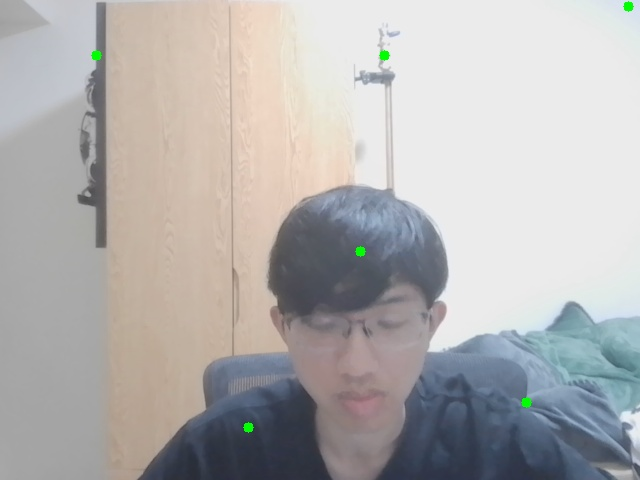
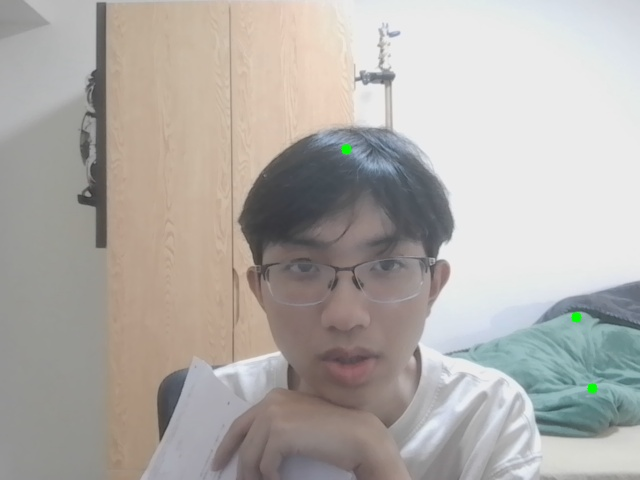
json

diff --git a/ai.py b/ai.py
@@ -12,21 +12,22 @@ ENDPOINT = "https://hsh2024.openai.azure.com/openai/deployments/gpt4o/chat/compl
 init_img2text = {
     "role": "user",
     "content":  """
-                請把圖片中的題目轉化成文字
+                我們要輔助沒有視覺的學生寫題目
+                所以幫我把題目圖片轉成文字
                 題目分成文字敘述跟圖兩個部分或是只有文字
-                假如有圖片 請分析圖片 告訴我對題目有用的內容 且盡量詳細
-
-                然後輸出給我題目敘述 跟你分析過後的圖片 
-                最後再統整所有資訊 分析題目 寫出答案
-                Json格式範例:
+                假如有圖片 處理完文字後 要分析圖片 寫下對題目有用的內容 且盡量詳細
+                分析完成題目後 把你的計算過程填入下面的json格式範例 
+                
+                Json格式:
                 {
                 "number": “題號”,
-                "text": "題目內容",
-                "image_description": "如果有圖片，請輸入圖片描述，否則為 null",
+                "text": "題目內容 請跟原文一模一樣",
+                "image_description": "如果有圖片，請輸入圖片描述，否則為 null，這部分是輔助盲人學生判斷題目的重點，所以假如有，要盡可能詳盡",
                 "options": “如果有選項，請輸入圖片描述，否則為 null”,
-                "idea":"統整以上並分析題目 寫下你的思考過程",
-                "answer":"答案"
+                "idea":"你的思考過程，請把剛剛所有分析填入這裡",
+                "answer":"最後的答案"
                 }
+                全部內容要能讓學生判斷並完成題目 並在最後輸出內含json的list比如[{question1},{question2}] 注意，就算只有一個json也要用list格式
                 """
 }
 
@@ -54,9 +55,9 @@ def img2text(img):
     messages.append(init_img2text)
     payload = {  
         "messages": messages,
-        "temperature": 0.7,  
+        "temperature": 0.4,  
         "top_p": 0.95,  
-        "max_tokens": 800  
+        "max_tokens": 2000  
     }
     response = requests.post(ENDPOINT, headers=headers, data=json.dumps(payload))  
     if response.status_code == 200:  
@@ -68,9 +69,10 @@ def img2text(img):
 init_answer = {
     "role": "user",
     "content":  """            
-                根據以下内容 分析題目跟想法 判斷是否正確 輸出新答案或維持一樣
-                最後輸出json格式答案
-                json格式範例： 
+                以下是一個學生寫的題目 以及他的計算過程 請判斷是否正確 答案可以是維持一樣或是新的
+
+                並在最後輸出內含json的list比如[{question1},{question2}]
+                Json格式範例： 
                 {
                 "number": “題號”,
                 "answer": "答案 如果有選項 只要選項字母即可"

diff --git a/test.py b/test.py
@@ -1,0 +1,28 @@
+import re
+import json
+
+res = '''
+```json
+[
+    {
+        "number": "8",
+        "text": "已知在△ABC中，若△ABC之內切圓分別切三邊BC、CA、AB於A1、B1、C1三點，其中∠BA1C1=θ1，如圖(一)；而圖(二)中△A1B1C1之內切圓分別切三邊B1C1、C1A1、A1B1於A2、B2、C2三點，其中∠B1A2C2=θ2，如圖(二)。依此規則遞迴下去，可得一數列{θn}，其中n為正整數。則下列選項何者正確？\n\n(1) θ1+2θ2=180°\n(2) {θn}為一等差數列\n(3)數列{θn}的通項公式為θn=θ1-90°(n-1)，其中n≥2\n(4)數列{θn} 為等比數列，且sinθn/sinθ1=cos^n(θ1/2)恒成立\n(5)若θ1=60°，則{θn}既為等差數列亦為等比數列",
+        "image_description": "圖(一)：一個三角形ABC，內切圓分別切三邊BC、CA、AB於A1、B1、C1三點，並標示角度∠BA1C1=θ1。\n\n圖(二)：一個較小的三角形A1B1C1，內切圓分別切三邊B1C1、C1A1、A1B1於A2、B2、C2三點，並標示角度∠B1A2C2=θ2。此過程可以遞迴下去。",  
+        "options": "(1) θ1+2θ2=180°\n(2) {θn}為一等差數列\n(3)數列{θn}的通項公式為θn=θ1-90°(n-1)，其中n≥2\n(4)數列{θn}為等比 數列，且sinθn/sinθ1=cos^n(θ1/2)恒成立\n(5)若θ1=60°，則{θn}既為等差數列亦為等比數列",
+        "idea": "根據題目描述，三角形內切圓的遞迴過程形成一個數列{θn}。分析選項：(1) θ1+2θ2=180°：需要檢查是否符合內角和的特 性。(2) {θn}為一等差數列：需要檢查每個θn之間的差是否相等。(3) 數列{θn}的通項公式為θn=θ1-90°(n-1)，其中n≥2：需要檢查通項公式是否成立。(4) 數列{θn}為等比數列，且sinθn/sinθ1=cos^n(θ1/2)恒成立：需要檢查等比數列的特性及公式是否成立。(5) 若θ1=60°，則{θn}既為等差數列亦為等比數列：需要檢查θ1=60°時，是否同時符合等差數列和等比數列的特性。根據內切圓和三角形的性質，進行計算和驗證。", 
+        "answer": "選項(4)正確。"
+    }
+]
+```
+'''
+
+def parse_code(response):
+    json_match = re.search(r'```(.*?)```', response, re.DOTALL)
+    if json_match:
+        json_str = json_match.group(0)  # 提取 JSON 部分
+    else:
+        print("未找到 JSON 內容")
+    return json_str
+
+
+print(parse_code(res))

diff --git a/camera.py b/camera.py
@@ -3,9 +3,19 @@ import numpy as np
 import point
 import ai
 import time
+import re
+import json
 # 開啟相機
 cap = cv2.VideoCapture(0)  # 0 通常是預設的相機
 count = 0
+def find_json(text):
+    json_match = re.search(r'```(.*?)```', text, re.DOTALL)
+    if json_match:
+        json_str = json_match.group(0)  # 提取 JSON 部分
+    else:
+        print("未找到 JSON 內容")
+    return json_str
+
 while True:
     # 捕獲幀
     ret, frame = cap.read()
@@ -21,12 +31,21 @@ while True:
     else:
         count = 0
     if count == 20:
+
         reply = ai.img2text(img)
         print(reply)
-        ans = ai.answer(reply)
+        print("======================================================")
+        reply_json = find_json(reply)
+        print(reply_json)
+        print("======================================================")
+        ans = ai.answer(reply_json)
         print(ans)
+        print("======================================================")
+        ans_json = find_json(ans)
+        print(ans_json)
         count = 0
         time.sleep(10)
+        
 
     cv2.imshow("blue", img)
     # 按 'q' 鍵退出

diff --git a/point.py b/point.py
@@ -66,24 +66,17 @@ def blue(img):
 
 def camera(img):
     image = img
-
-# 將圖片從 BGR 轉換到 HSV
     hsv = cv2.cvtColor(image, cv2.COLOR_BGR2HSV)
 
-# 定義藍色的HSV範圍
-    lower_blue = np.array([70, 20, 0])  # 藍色的下界
+    lower_blue = np.array([70, 50, 0])  # 藍色的下界
     upper_blue = np.array([140, 255, 255])  # 藍色的上界
 
-# 創建遮罩，過濾掉非藍色部分
     mask = cv2.inRange(hsv, lower_blue, upper_blue)
 
-# 尋找輪廓
     contours, _ = cv2.findContours(mask, cv2.RETR_EXTERNAL, cv2.CHAIN_APPROX_SIMPLE)
 
-# 儲存點的座標
     blue_points = []
 
-# 遍歷每個輪廓，計算中心點
     for contour in contours:
         M = cv2.moments(contour)
         if M["m00"] != 0:
